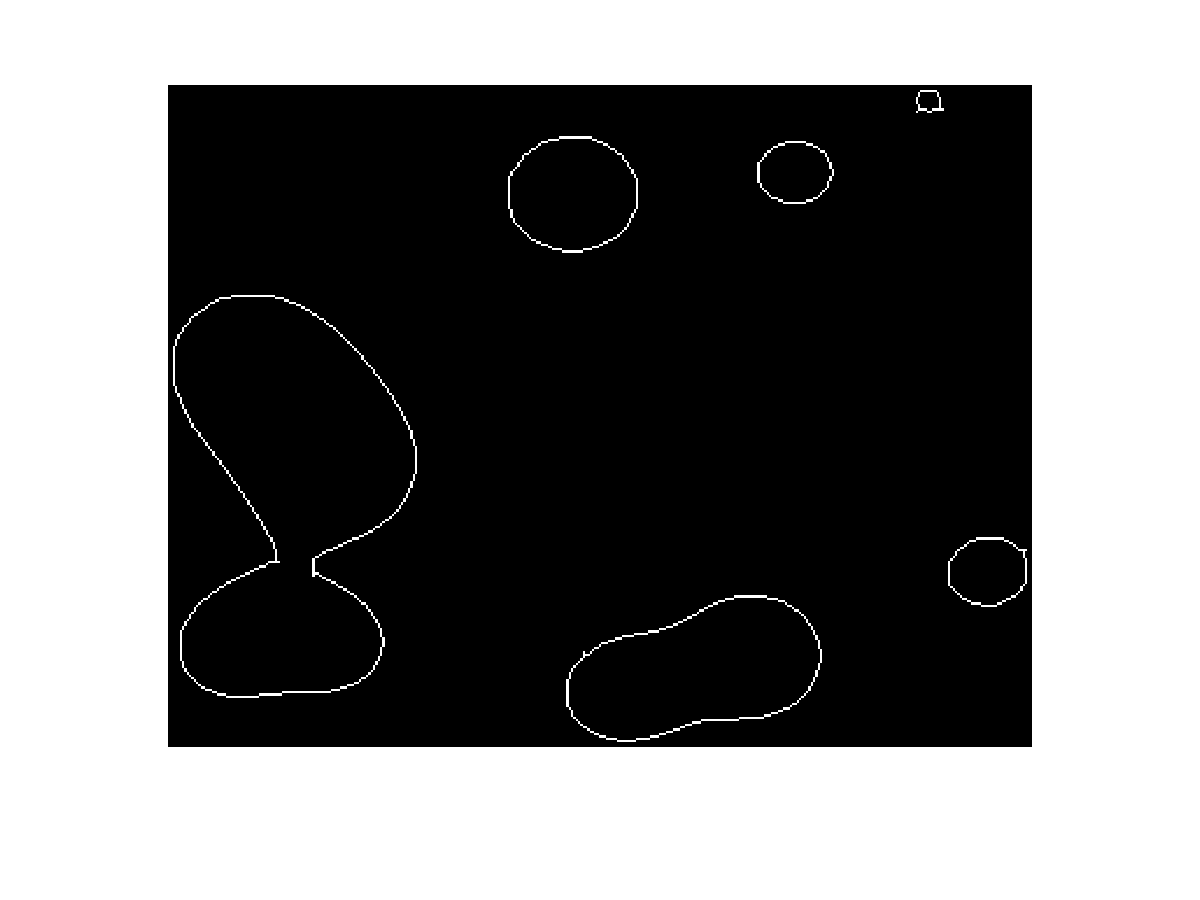
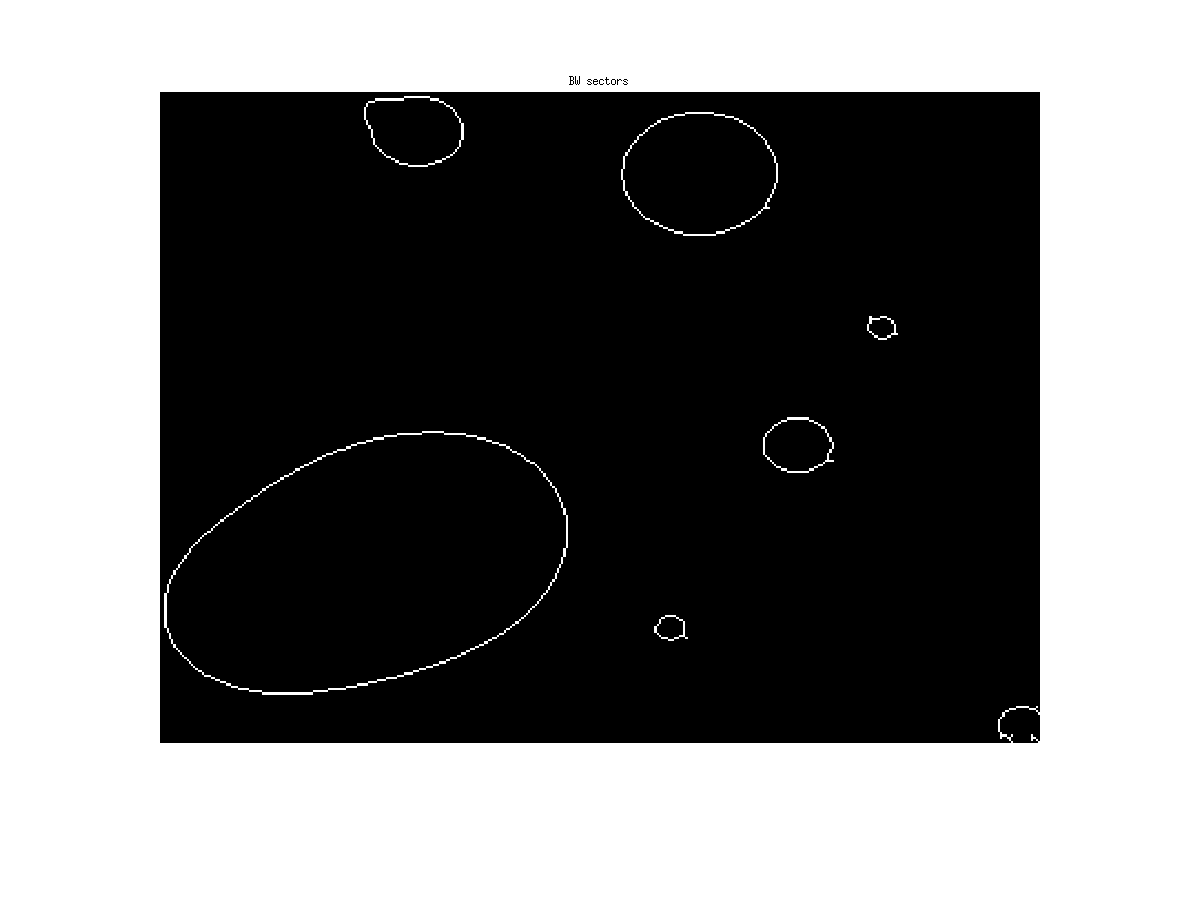
[Noise] Added elliptic approximation of sectors + centroids + BW + convexHull regions

diff --git a/Matlab/Noise/thresholdCross.m b/Matlab/Noise/thresholdCross.m
@@ -39,28 +39,30 @@ end
 figure(1);
 surf(X,Y,Z)
 
-%% Post elaboration
-
-figure(2);
-grid on
-axis equal
-axis tight
-contour(X,Y,Z);
-cl = contour(X,Y,Z);
+%% Analyze data -  Post elaboration 
+% Contour[Required]
+% 
+% figure(2)
+% grid on
+% axis equal
+% % axis tight
+% % contour(X,Y,Z);
+figure(2)
+ cl = contour(X,Y,Z);
 [x1,y1,z1] = C2xyz(cl);
-
-% countours at 0.8
-h=[0.8,0.8]
-contour(X,Y,Z,h)
-
-
-figure(3);
+% 
+% % countours at 0.8
+% h=[0.8,0.8]
+% contour(X,Y,Z,h)
+%% isaolate regions of interest
+% Same ad the commented code above + more options
+figure(3)
 hold on; % Allows plotting atop the preexisting peaks plot. 
 threshold = 0.8;
 sector.numberOfZones = 1;
 % analyze all the level curves
 for n = find(z1==threshold); 
-   n
+   %n
    %xTh(1,n) = x1{n};
    %yTh(1,n) = y1{n};
    hold on;
@@ -69,6 +71,8 @@ for n = find(z1==threshold);
    sector.zones(sector.numberOfZones).y(1,1:size(x1{n},2)) = y1{n}(1,:);
    sector.numberOfZones = sector.numberOfZones + 1;
 end
+title('Contours of interest');
+hold off
 disp('Number of zones founded:');
 disp(sector.numberOfZones);
 
@@ -89,56 +93,80 @@ BW = ~im2bw(uint8(255.*im2double(im)),0.99);
 BW = bwmorph(BW,'skel',Inf);
 figure(4);
 imshow(BW)
+title('BW sectors');
 % Save it
 saveas(4, 'sectors1', 'png');
 
 %% Centroids
 
-stats = regionprops(BW,'Centroid',...
-    'MajorAxisLength','MinorAxisLength','Extrema','BoundingBox','ConvexArea','ConvexHull','ConvexImage')
+stats = regionprops(BW,'Centroid','MajorAxisLength','MinorAxisLength',...
+    'Orientation','Eccentricity','Extrema','BoundingBox','ConvexArea',...
+    'ConvexHull','ConvexImage')
 
-% Plot centroids
+% Plot centroids in negative image
 centroids = cat(1, stats.Centroid);
 imshow(BW)
 hold on
 plot(centroids(:,1),centroids(:,2), 'b*')
 hold off
 
-% just a test to see the results of regionprops
-% centers = stats.Centroid;
-% diameters = mean([stats.MajorAxisLength stats.MinorAxisLength],2);
-% radii = diameters/2;
-
-figure(6)
-%subplot(1,3,1);
-%BW = imread('sectors1.png');
-%imshow(BW);
-%title('Binary');
-    
-% subplot(2,2,2);
-% BW1 = BW > 10;
-% imshow(BW1);
-% title('Binary');
-    
-subplot(1,2,1);
-CH = bwconvhull(BW);
-imshow(CH);
-title('Union Convex Hull');
-    
-subplot(1,2,2);
+% Plot centroids in convex sectors
+figure(5)
 CH_objects = bwconvhull(BW,'objects',8);
 imshow(CH_objects);
-title('Objects Convex Hull');
+hold on
+plot(centroids(:,1),centroids(:,2), 'b*')
+hold off
+title('Objects Convex Hull + centroids');
+    
+%% Plot elliptic approximation
+
+%imshow(BW)
+hold on
+
+phi = linspace(0,2*pi,50);
+cosphi = cos(phi);
+sinphi = sin(phi);
+
+for k = 1:length(s)
+    xbar = s(k).Centroid(1);
+    ybar = s(k).Centroid(2);
+
+    a = s(k).MajorAxisLength/2;
+    b = s(k).MinorAxisLength/2;
+
+    theta = pi*s(k).Orientation/180;
+    R = [ cos(theta)   sin(theta)
+         -sin(theta)   cos(theta)];
+
+    xy = [a*cosphi; b*sinphi];
+    xy = R*xy;
+
+    x = xy(1,:) + xbar;
+    y = xy(2,:) + ybar;
+
+    plot(x,y,'r','LineWidth',2);
+
+end
+hold off
+
+%% Plots Global convexHull figure
+
+figure(6)
+title('Union Convex Hull');
+CH = bwconvhull(BW);
+imshow(CH);
 
 %% Scaling sectors up by a factor of K
 
 k=1
-figure(9)
+%figure(9)
 % For each sector
+figure(4)
 for i=1:sector.numberOfZones-1
     % for each point of the sector
     for j=1:size(sector.zones(i).x,2)-1        
-        %plot(sector.zone(i).x(1,j),sector.zone(i).y(1,j),'-b','LineWidth',3)
+        plot(sector.zone(i).x(1,j),sector.zone(i).y(1,j),'-b','LineWidth',3)
         v=[sector.zones(i).x(1,j) - stats(i).Centroid(1); sector.zones(i).y(1,j) - stats(i).Centroid(2)];
         sector.zone(i).x(1,j) = sector.zones(i).x(1,j) + k*v(1) ;
         sector.zone(i).y(1,j) = sector.zones(i).y(1,j) + k*v(2) ;
@@ -146,10 +174,11 @@ for i=1:sector.numberOfZones-1
         %plot(sector.zone(i).x(1,j),sector.zone(i).y(1,j),'-r','LineWidth',3)
     end
     
-    plot(centroids(i,1),centroids(i,2), 'r*')
-    hold on
+    %plot(centroids(i,1),centroids(i,2), 'r*')
+    %hold on
 end
 hold off
+%%
 
 figure(7)
 for i=1:sector.numberOfZones-1
